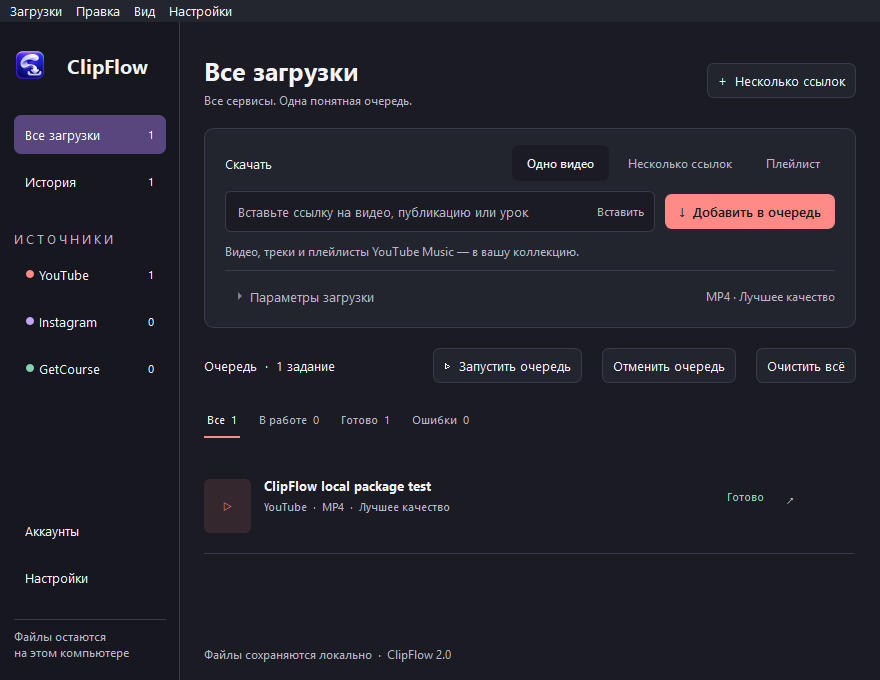
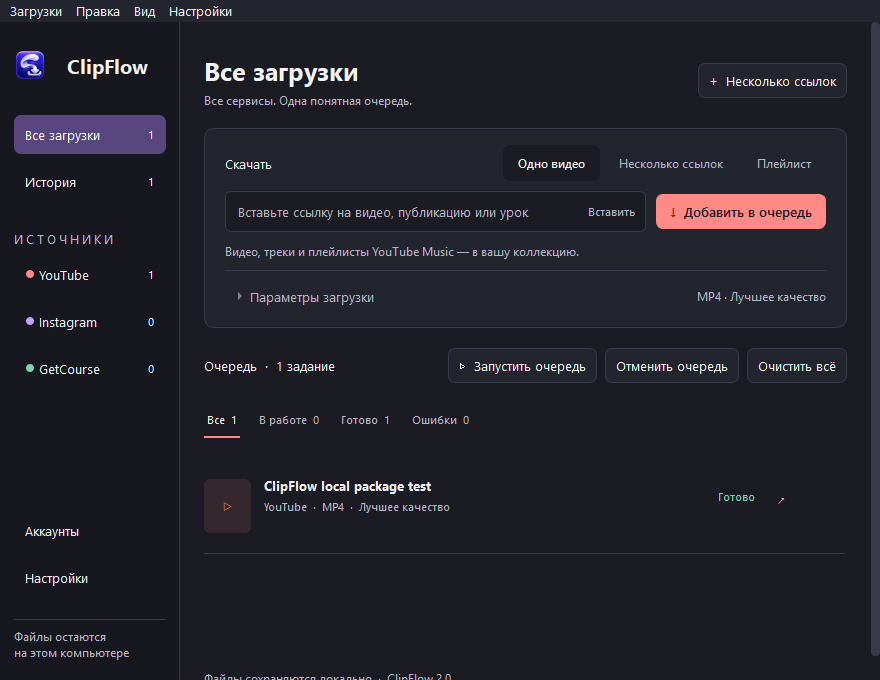
docs: publish final desktop screenshots and candidate verification

diff --git a/docs/releases/2.0.0-candidate-2026-10-30.md b/docs/releases/2.0.0-candidate-2026-10-30.md
@@ -1,0 +1,36 @@
+# ClipFlow2.0.0 — проверенный кандидат,30 октября2026
+
+Сборки: `bfd5726c408068dc94ecb580a04d8d4c05dfa938`. Проверки: [`d09a1dc`](https://github.com/kirillbronski/clipflow/commit/d09a1dcc54cf155189cd357e6caff3a39047fde3).
+
+Изменение после сборки касается CI/ожидания завершения Qt layout в тесте.
+Деревья src/assets/packaging, runtime requirements и build scripts идентичны;
+первоначальный source SHA в build-report сохранён без подмены.
+
+| Артефакт | Байты | SHA256 |
+| --- | ---: | --- |
[4 lines of base64/hex data omitted]
+
+Пакеты переданы владельцу через согласованную папку Drive; GitHub binary Release не публиковался.
+
+## Проверки
+
+Mac27.0.1 arm64/Python3.12.15:458PASS/6 explicit skips, core97.26% строк/91.67% ветвей, runtime87.97%. Native bulk/layout47PASS.
+Windows11 ARM64 Parallels, x64 runtime:27 native bulk PASS/1 symlink privilege skip,6 offscreen regression PASS.
+Полный локальный Windows прогон дал457PASS/1 преждевременный geometry assertion/6 skips; после исправления ожидания прошёл полный CI обеих ОС.
+
+- [Python 3.12 · macos-15](https://github.com/kirillbronski/clipflow/actions/runs/40964099393/job/123764046850): success.
+- [Python 3.12 · windows-latest](https://github.com/kirillbronski/clipflow/actions/runs/40964099393/job/123764046670): success.
+
+Обе clean-сборки прошли frozen UI/local media/FFmpeg/FFprobe/Node и protected WebEngine self-tests.
+Mac27 Launch Services из DMG и /Applications проверены; Windows установлен в Program Files с Desktop shortcut, окно responsive.
+Профили сохранены, лишние собственные Mac app/build copies удалены.
+
+## Открытая приёмка
+
+Mac normal profile ожидает подтверждения Keychain владельцем. Ключи и ACL не сбрасывались.
+Foreground Command+N на Mac27 ещё требует ручного подтверждения; synthetic/CI15 не подменяют этот gate.
+Личный вход, закрытый GetCourse и live Instagram profile10/50/all не приняты; профиль остаётся experimental.
+Mac подпись ad-hoc, без notarization. `main` не обновлялся; разработка и README находятся в `dev`.

diff --git a/docs/PROJECT-MEMORY.md b/docs/PROJECT-MEMORY.md
@@ -2,6 +2,22 @@
 
 Обновлено 29 октября 2026 года. Это указатель на состояние работы, не замена актуальному Git, AGENTS и результатам проверок.
 
+## Итог текущей задачи — 30 октября
+
+Все изменения кода/README/тестов отправлены в dev. Compiled source `bfd5726`;
+verification head `d09a1dc` — GitHub checks Windows и macOS completed SUCCESS.
+После сборки изменились только CI и ожидание settled layout в тесте; shipping
+src/assets/packaging/runtime requirements/build scripts идентичны по git diff.
+Пакеты не пересобирались без изменения продукта; provenance source SHA не подменён.
+Итоговый [отчёт](releases/2.0.0-candidate-2026-10-30.md), SHA256 и verification.json
+в согласованной папке владельца. DMG/EXE/APP ZIP/portable ZIP обновлены, обе установки
+обновлены; Mac одна app, Windows Desktop shortcut responsive. Профили сохранены.
+
+На Mac остаётся системное разрешение Keychain для существующего профиля; вопрос
+владельцу задан, доступа за него не подтверждать. Native foreground Command+N и
+личные/live acceptance остаются открыты. main не мержился. После сохранения
+Agents/ClipFlow — ПАУЗА; не начинать новую функциональность без запроса владельца.
+
 ## Уточнение тестовой проверки и Mac Keychain
 
 Полный Parallels прогон того же runtime bfd5726 дал457PASS/6skips и1FAIL:

diff --git a/README.md b/README.md
@@ -110,6 +110,7 @@
 В готовые сборки входят Python runtime, FFmpeg, FFprobe, Node.js и необходимые
 компоненты Qt WebEngine. Ставить их отдельно для установщика не нужно.
 Mac-кандидат имеет локальную ad-hoc подпись; notarization пока не выполнена.
+[Отчёт о сборках и проверках](docs/releases/2.0.0-candidate-2026-10-30.md).
 
 ### Запуск из исходников
 
